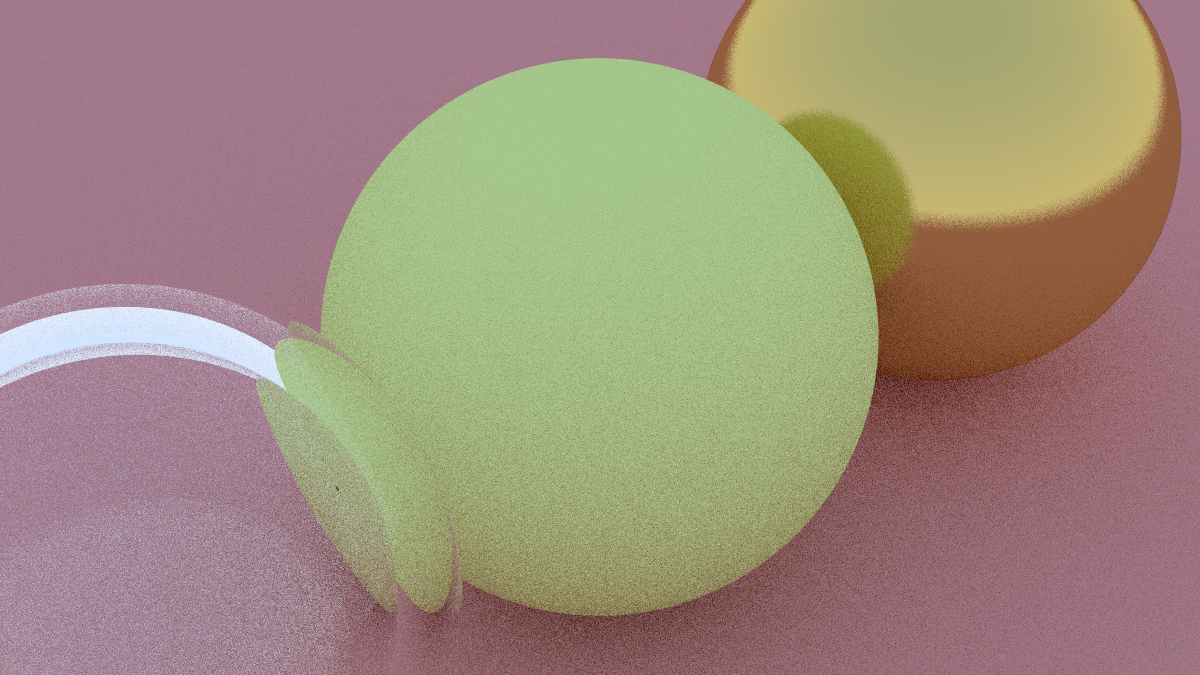
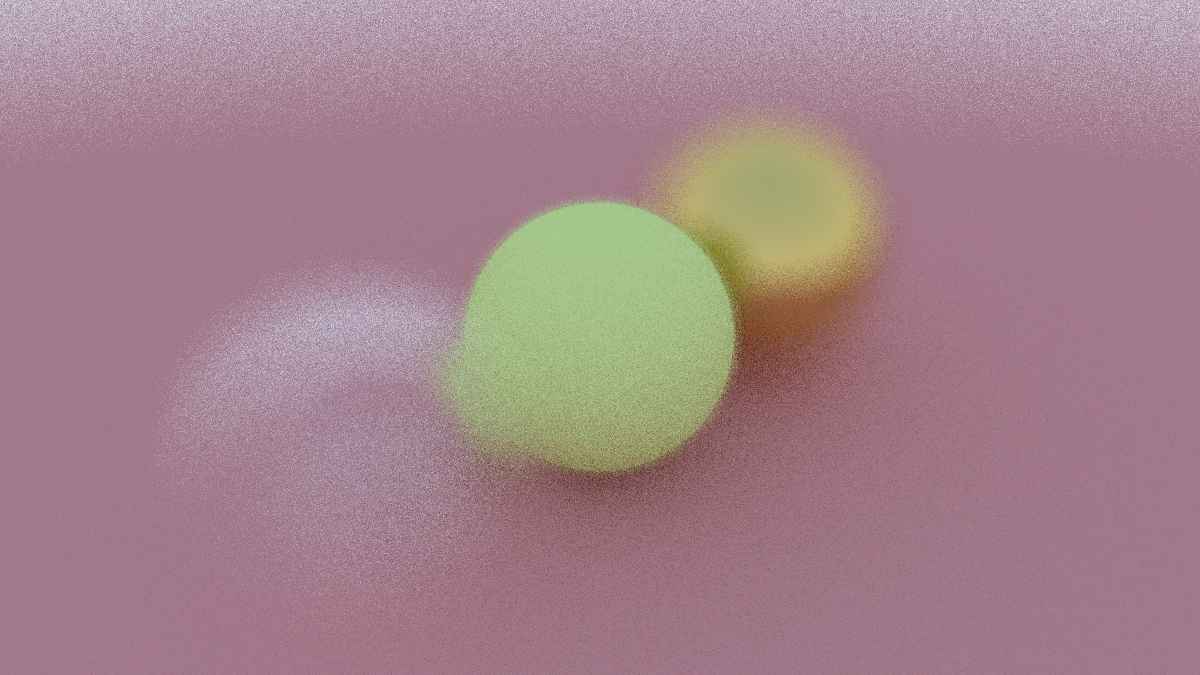
update

diff --git a/src/camera.rs b/src/camera.rs
@@ -1,4 +1,5 @@
 use super::ray::*;
+use super::utils::*;
 use super::vec3::*;
 use std::f64::consts::*;
 
@@ -7,10 +8,22 @@ pub struct Camera {
     pub lower_left_corner: Vec3,
     pub hori: Vec3,
     pub vert: Vec3,
+    pub v: Vec3,
+    pub u: Vec3,
+    pub w: Vec3,
+    pub lens_radius: f64,
 }
 
 impl Camera {
-    pub fn new(lookfrom: Vec3, lookat: Vec3, vup: Vec3, vfov: f64, aspect_ratio: f64) -> Self {
+    pub fn new(
+        lookfrom: Vec3,
+        lookat: Vec3,
+        vup: Vec3,
+        vfov: f64,
+        aspect_ratio: f64,
+        aperture: f64,
+        focus_dist: f64,
+    ) -> Self {
         let theta = vfov * PI / 180.0;
         let h = (theta / 2.0).tan();
         //let ratio = 16.0 / 9.0;
@@ -23,19 +36,25 @@ impl Camera {
         let v = Vec3::cross(u, w).unit();
 
         let origin = lookfrom;
-        let horizontal = u * viewport_width;
-        let vertical = v * viewport_height;
-        let left_of_corner = origin - horizontal / 2.0 - vertical / 2.0 - w;
+        let horizontal = u * viewport_width * focus_dist;
+        let vertical = v * viewport_height * focus_dist;
+        let left_of_corner = origin - horizontal / 2.0 - vertical / 2.0 - w * focus_dist;
         Self {
             orig: origin,
             lower_left_corner: left_of_corner,
             hori: horizontal,
             vert: vertical,
+            u,
+            w,
+            v,
+            lens_radius: aperture / 2.0,
         }
     }
 
-    pub fn get_ray(&self, u: f64, v: f64) -> Ray {
-        let dir = self.lower_left_corner + self.hori * u + self.vert * v - self.orig;
-        Ray::new(&self.orig, &dir)
+    pub fn get_ray(&self, s: f64, t: f64) -> Ray {
+        let rd = random_in_unit_disk() * self.lens_radius;
+        let offset = self.u * rd.x + self.v * rd.y;
+        let dir = self.lower_left_corner + self.hori * s + self.vert * t - self.orig - offset;
+        Ray::new(&(self.orig + offset), &dir)
     }
 }

diff --git a/src/utils.rs b/src/utils.rs
@@ -23,7 +23,7 @@ pub fn ray_color(ray_in: &Ray, world: &HittableList, depth: i32) -> Color {
             if (*x).scatter(ray_in, &mut rec, &mut color, &mut scattered) {
                 return ray_color(&scattered, world, depth - 1) * color;
             }
-            return Color::new(0.0,0.0,0.0);
+            return Color::new(0.0, 0.0, 0.0);
         }
     }
 
@@ -44,6 +44,18 @@ pub fn get_random_number_range(min: f64, max: f64) -> f64 {
 pub fn random_in_unit_sphere() -> Vec3 {
     loop {
         let p = Vec3::random_range(-1.0, 1.0);
+        if p.length_squared() < 1.0 {
+            return p;
+        }
+    }
+}
+pub fn random_in_unit_disk() -> Vec3 {
+    loop {
+        let p = Vec3::new(
+            get_random_number_range(-1.0, 1.0),
+            get_random_number_range(-1.0, 1.0),
+            0.0,
+        );
         if p.length_squared() < 1.0 {
             return p;
         }

diff --git a/src/main.rs b/src/main.rs
@@ -67,7 +67,8 @@ fn main() {
     let lookfrom = Vec3::new(-2.0, 2.0, 1.0);
     let lookat = Vec3::new(0.0, 0.0, -1.0);
     let vup = Vec3::new(0.0, 1.0, 0.0);
-    let camera = Camera::new(lookfrom, lookat, vup, 20.0, ratio);
+    let dist_to_focus = (lookfrom - lookat).length();
+    let camera = Camera::new(lookfrom, lookat, vup, 20.0, ratio, 2.0, dist_to_focus);
     let get_offset = |value: u32| -> f64 { value as f64 + get_random_number() };
 
     let pixle_generator = |x, y| -> image::Rgb<u8> {
